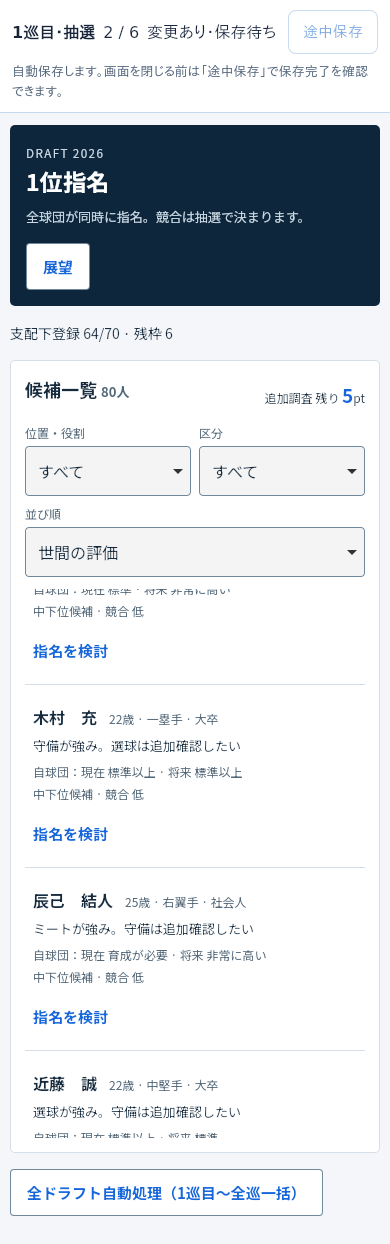
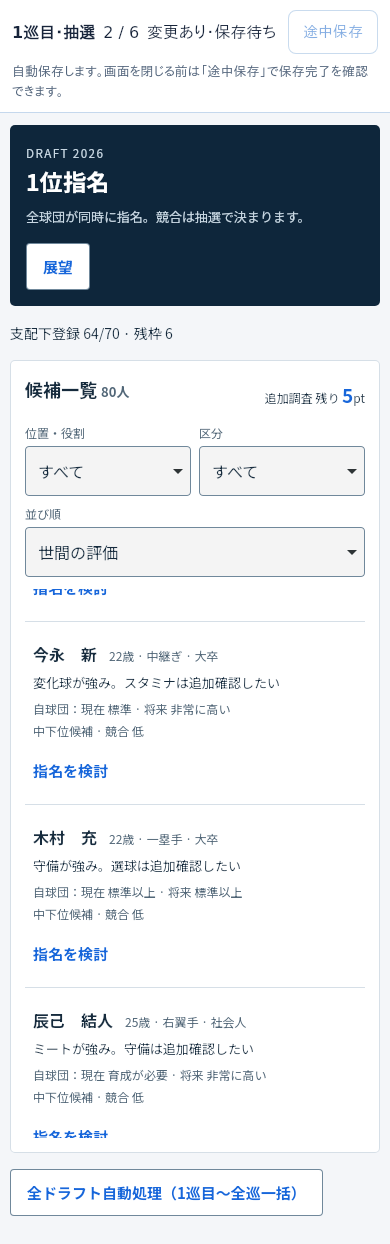
fix: flush pending draft view before outside pointer saves
Cover pointer and Enter same-task manual payloads with real persistence.
Capture final CI matrix measurements and screenshots in Actions artifacts.

Changed region(s): [[0.0923, 0.4582, 0.6462, 0.9164], [0.6154, 0.8553, 0.6462, 0.8859]]

diff --git a/e2e/qa-d1-draft.spec.js b/e2e/qa-d1-draft.spec.js
@@ -5,7 +5,7 @@ import {execFileSync} from 'node:child_process';
 import {createHash} from 'node:crypto';
 import {readSave,reloadAndLoad,waitSaveIdle} from './helpers/progression';
 
-const EVIDENCE='docs/validation/qa-d1';
+const EVIDENCE=process.env.QA_D1_EVIDENCE || 'docs/validation/qa-d1';
 const SOURCE=execFileSync('git',['rev-parse','HEAD'],{encoding:'utf8'}).trim();
 const BASE_SHA='a14a5c888dca3cfe07c7338482e4130290a6257b';
 const SOURCE_FILES=Object.fromEntries(['src/components/DraftCandidates.jsx','src/engine/draftReports.js','src/components/Draft.jsx','src/components/DraftPreview.jsx'].map(path=>[path,execFileSync('git',['hash-object',path],{encoding:'utf8'}).trim()]));
@@ -132,20 +132,24 @@ test('generated draft browser journey, persistence and candidate return',async({
   const pendingScroll=await list.evaluate(el=>{el.scrollTop-=200;el.dispatchEvent(new Event('scroll',{bubbles:true}));return el.scrollTop;});
   const viewSaved=await saveDraft(page);
   expect(viewSaved.offseasonPlan.draftViews.lottery.candidateView.listScroll).toBe(pendingScroll);
-  const immediateSave=page.getByRole('button',{name:'途中保存',exact:true});
-  await expect(immediateSave).toBeEnabled();await immediateSave.focus();
-  // Enter's default click may run before React's native-listener updates commit.
-  // Keep keydown and click in one task so the CI race has a deterministic RED.
-  const immediate=await list.evaluate(el=>{
-    el.scrollTop-=120;el.dispatchEvent(new Event('scroll',{bubbles:true}));
-    const expected=el.scrollTop,before=window.__qaManualSavePositions.length;
-    const save=[...document.querySelectorAll('button')].find(b=>b.textContent.trim()==='途中保存');
-    save.dispatchEvent(new KeyboardEvent('keydown',{key:'Enter',code:'Enter',bubbles:true}));
-    save.click();
-    return {expected,requested:window.__qaManualSavePositions.slice(before)};
-  });
-  expect(immediate.requested).toEqual([immediate.expected]);
-  await waitSaveIdle(page);
+  // Capture both outside pointer and Enter boundaries in the same task as
+  // their default click, before a later autosave could hide a stale request.
+  for(const eventType of ['pointerdown','keydown']){
+    const save=page.getByRole('button',{name:'途中保存',exact:true});
+    await expect(save).toBeEnabled();await save.focus();
+    const immediate=await list.evaluate((el,eventType)=>{
+      el.scrollTop-=120;el.dispatchEvent(new Event('scroll',{bubbles:true}));
+      const expected=el.scrollTop,before=window.__qaManualSavePositions.length;
+      const button=[...document.querySelectorAll('button')].find(b=>b.textContent.trim()==='途中保存');
+      button.dispatchEvent(eventType==='keydown'
+        ?new KeyboardEvent('keydown',{key:'Enter',code:'Enter',bubbles:true})
+        :new PointerEvent('pointerdown',{bubbles:true}));
+      button.click();
+      return {expected,requested:window.__qaManualSavePositions.slice(before)};
+    },eventType);
+    expect(immediate.requested,`${eventType} manual payload`).toEqual([immediate.expected]);
+    await waitSaveIdle(page);
+  }
   // A disabled save button loses focus during the first save. Wait for the
   // visible control to be usable and focus it again for a real Enter action.
   const keyboardSave=page.getByRole('button',{name:'途中保存',exact:true});
@@ -245,6 +249,7 @@ test('generated draft scroll and repeated public ranking measurement',async({pag
     for(let round=0;round<100;round++)for(const id of ids)sum+=publicDraftTier(session,id).length;
     return {calls:100*ids.length,sorts:window.__qa.publicRankingSorts-before,elapsedMs:performance.now()-start,checksum:sum};
   });
+  if(process.env.QA_D1_CAPTURE)console.log('QA-D1 measurement '+JSON.stringify({browser:testInfo.project.name,scrolling,ranking}));
   evidence(`browser-performance-${process.env.QA_D1_STAGE || 'after'}-${testInfo.project.name}`,{browser:testInfo.project.name,candidateCount:info.pool.length,scrollSteps:48,scrollInput:'scrollTop changes plus dispatched scroll events at requestAnimationFrame spacing',scrollElapsedMs,scrollFrames,scrolling,navigationActionsMs,navigation,ranking,instrumentation:'Test-only HTTP response counters + React DevTools commit hook + storage perf-log writes. Vite React StrictMode; no CPU throttle.',hardware:'Browser automation on host, not phone hardware'});
   if(process.env.QA_D1_STAGE!=='baseline'){
     // Includes the real save queue/status commits after the settled scroll.

diff --git a/src/components/DraftCandidates.jsx b/src/components/DraftCandidates.jsx
@@ -38,19 +38,19 @@ export default function DraftCandidates({pool,session,onScout,rankings=[],foreca
   useEffect(()=>{
     // Publish settled scrolling once, and flush before an outside save/navigation
     // click or keyboard action can snapshot the parent state.
-    const beforePointer=e=>{if(!rootRef.current?.contains(e.target))flushScroll();};
-    // Enter can trigger the save button's click in the same browser task.
+    // Pointer/Enter can trigger the save click in the same browser task.
     // Commit only a pending position before that click reads the parent state.
-    const beforeKeyboard=()=>{if(scrollPending.current)flushSync(flushScroll);};
+    const beforeAction=()=>{if(scrollPending.current)flushSync(flushScroll);};
+    const beforePointer=e=>{if(!rootRef.current?.contains(e.target))beforeAction();};
     if(typeof document!=='undefined'){
       document.addEventListener?.('pointerdown',beforePointer,true);
-      document.addEventListener?.('keydown',beforeKeyboard,true);
+      document.addEventListener?.('keydown',beforeAction,true);
     }
     return ()=>{
       cancelScroll();
       if(typeof document!=='undefined'){
         document.removeEventListener?.('pointerdown',beforePointer,true);
-        document.removeEventListener?.('keydown',beforeKeyboard,true);
+        document.removeEventListener?.('keydown',beforeAction,true);
       }
     };
   },[]);

diff --git a/docs/implementation/qa-d1.md b/docs/implementation/qa-d1.md
@@ -74,11 +74,13 @@ ChromiumとPlaywright WebKitの360/390/1440pxを対象に、80人の通常生成
 | P0 | 検証範囲では進行停止・所属破壊を検出せず | ゲームルール・保存形式の修正なし |
 | P1（独立レビューで検出した修正中の回帰） | PCの詳細表示中に並び替えるとDOM位置が戻らず、キーボードフォーカスが詳細見出しへ移る | フィルターの位置リセットと選択時フォーカス処理を分離。失敗テスト追加後に修正、両エンジンで確認 |
 | P2 | 48回のscrollで31〜48回の親更新と5,760〜12,480回の順位ソート | 最新位置をrefに保持し150msで同期、公開mapのidentityで順位キャッシュ |
-| P2（CI追検出） | スクロール直後のEnter保存が前の位置を読む。1段の同期だけでは画面→保存状態のpassive effectによる遅延が残る | 同一taskのkeydown→clickで実handleSave要求を捕捉する失敗回帰を追加。pending位置だけ同期し、プレビュー／1位／後続巡のview橋渡しをlayout effectへ変更。両390pxの実Enter・保存再開も成功 |
+| P2（CI追検出） | スクロール直後のEnter／外部pointer保存が前の位置を読む。1段の同期だけでは画面→保存状態のpassive effectによる遅延が残る | 同一taskのpointerdown／keydown→clickで実handleSave要求を捕捉する失敗回帰を追加。pending位置だけ同期し、プレビュー／1位／後続巡のview橋渡しをlayout effectへ変更。両390pxの実Enter・保存再開も成功 |
 | P2 | PCで一覧へ戻るとfocusが深い位置を約3,000px動かす | preventScroll付きfocus。両エンジンのRED→GREEN |
 | P2／後続バランス | 二軍捕手不足による未実施、3年目の登録枠充足 | 原因・件数を記録。CPU編成全体の変更は分離 |
 
-初回CI（[run399](https://github.com/shotaro-hue/baseball-manager/actions/runs/38737005259)）はブラウザ12/14成功、Chromium390/1440のキーボード保存で失敗した。成功扱いにはしていない。[追検出記録](../validation/qa-d1/keyboard-boundary.json)にRED、同期だけでは不足した原因、最終修正と再確認を記録した。保存用状態への橋渡しは3画面の既存serializationを維持し、実ストレージIOをlayout effectへ移していない。同期はpending位置があるキー操作時に限定する（[React公式flushSync](https://react.dev/reference/react-dom/flushSync)参照）。試験側も、前の保存で無効化されフォーカスを失ったボタンを再び有効・フォーカス済みにし、Enterで実際に手動保存要求が発生したことを検証する。遅れて走る自動保存で誤って合格しないよう、要求時と保存後の両方を確認する。
+初回CI（[run399](https://github.com/shotaro-hue/baseball-manager/actions/runs/38737005259)）はブラウザ12/14成功、Chromium390/1440のキーボード保存で失敗した。既存進行suiteでも118/119成功、外部pointer保存で位置200pxの不一致があった。成功扱いにはしていない。[追検出記録](../validation/qa-d1/keyboard-boundary.json)にRED、同期だけでは不足した原因、最終修正と再確認を記録した。保存用状態への橋渡しは3画面の既存serializationを維持し、実ストレージIOをlayout effectへ移していない。同期はpending位置があるキー操作・候補パネル外のpointer操作時に限定する（[React公式flushSync](https://react.dev/reference/react-dom/flushSync)参照）。試験側も、前の保存で無効化されフォーカスを失ったボタンを再び有効・フォーカス済みにし、Enterで実際に手動保存要求が発生したことを検証する。遅れて走る自動保存で誤って合格しないよう、要求時と保存後の両方を確認する。
+
+最終headのQA-D1 CIでは`test-results/qa-d1-evidence`に6条件の`final-ci`測定JSONと18画面を保存し、既存Actions artifactへ添付する。主要な処理回数もjob logへ出力する。計測済みの過去JSONのsource hashを最終値へ書き換えず、最終headのCI成果物と区別する。
 
 ## テスト・CI・限界
 
@@ -93,7 +95,7 @@ QA_D1_CAPTURE=1 npx playwright test --config=scripts/qa-d1-browser.config.js --w
 - 関連baseline：draftReports/draftRules/useDraftEvaluation 22件成功。
 - 生成ドラフト：2件成功（最終sourceで再測定）。複数年度：3seed計9年成功、単一ファイル時のworker失敗と隔離後の確認を区別。既存draftStrategy/confirmedPicks/roles/rules/organizationNeeds 54件成功。
 - 実App既存E2：通常最終試合→大会の保存再開→引退→契約編成→ドラフト→キャンプ→翌年開幕がChromiumで成功（41.4秒）。編成不足の案内・UI修復→1試合も成功（15.4秒）。
-- 新規回帰：スクロール・順位再利用・既存の評価／hookを含む27件成功。PCで戻る際の3,000pxジャンプは両エンジンでRED→GREEN。独立レビューで検出した詳細表示中の並び替え時のフォーカス移動・DOM位置不一致もRED→GREENにし、両エンジンのPC回帰を再確認。CI追検出のキーボード保存は両390pxのjourney 2件成功（3.5分）、性能2件成功、関連27件とビルド（13.59秒）を再確認。最終head CIはPR本文に記録。全単体・統合と通常E2Eの正本はPR本文のexact-head Actions結果とする。既存の条件付き経済ベンチマーク2件を新たなskipや成功件数として数えない。
+- 新規回帰：スクロール・順位再利用・既存の評価／hookを含む27件成功。PCで戻る際の3,000pxジャンプは両エンジンでRED→GREEN。独立レビューで検出した詳細表示中の並び替え時のフォーカス移動・DOM位置不一致もRED→GREENにし、両エンジンのPC回帰を再確認。CI追検出のキーボード保存は外部pointerを含む両390pxのjourney 2件成功（3.8分）、関連27件とビルド（11.27秒）を再確認。性能2件はキーボード／layout修正時点で再測定し、pointer境界の最終修正後はCIの6条件で再確認する。最終head CIはPR本文に記録。全単体・統合と通常E2Eの正本はPR本文のexact-head Actions結果とする。既存の条件付き経済ベンチマーク2件を新たなskipや成功件数として数えない。
 
 iPhone実機、スクリーンリーダー、実端末200%拡大、3年を超える長期バランス、候補生成／成長の校正、CPUのFA・更改・戦力外判断全面改修は対象範囲の完了認定に含めない。
 
